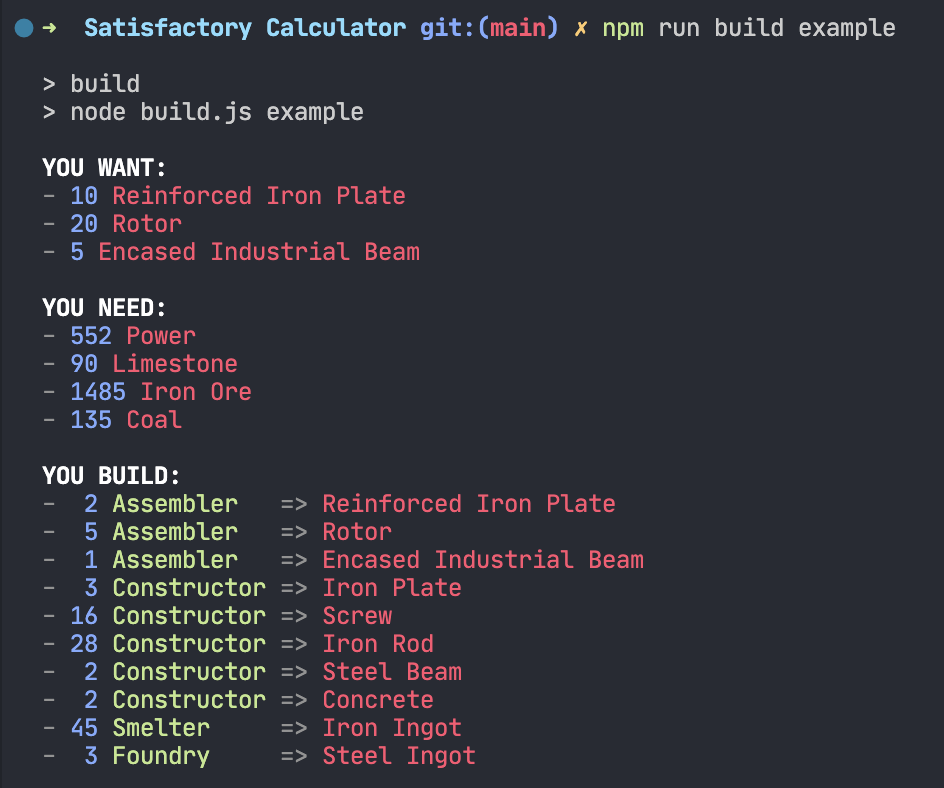
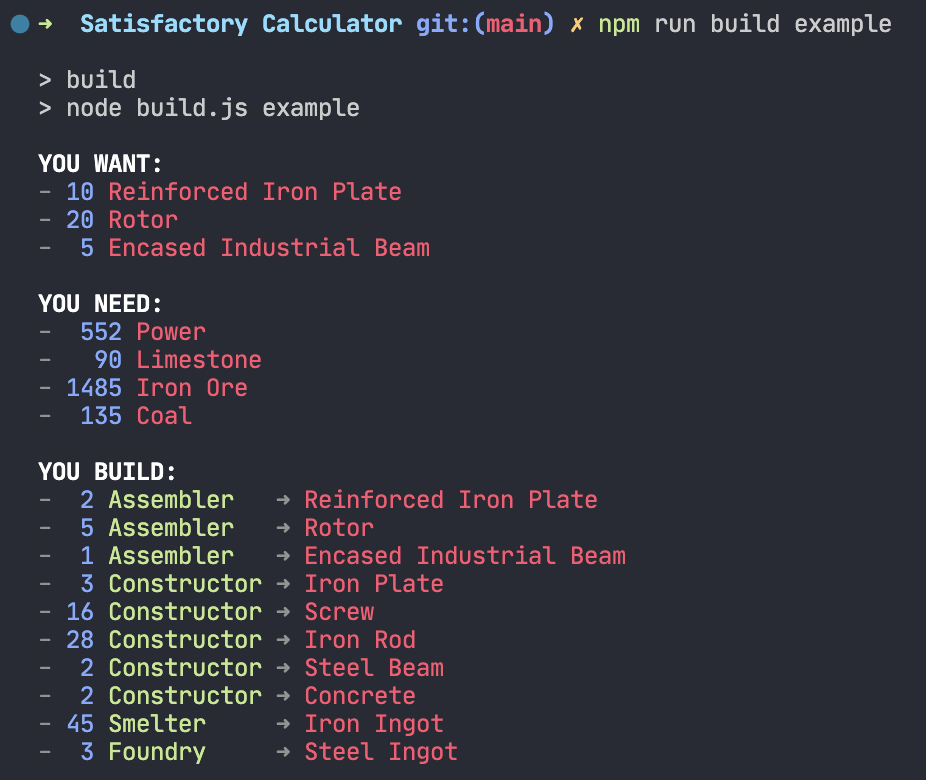
Table spacing

diff --git a/build.js b/build.js
@@ -4,7 +4,6 @@ const argv          = require('yargs/yargs')(process.argv.slice(2)).argv;
 const util          = require('util');
 const createID      = require('./modules/generate-hex-id');
 const { formatCLI } = require('./modules/cli-format');
-const { format } = require('path');
 
 const data = getData();
 
@@ -219,24 +218,42 @@ function displayResults( results ) {
 
 	lines.push( formatCLI('YOU WANT:', 'bold,white') );
 
+	// REQUESTS (“YOU WANT…’)
+	let resultsTable = [];
+
 	results.requests.forEach(request => {
 		const item = data.map.get(request.itemID);
-		lines.push( formatCLI('- ', 'black') + formatCLI(request.num, 'blue') + ' ' + formatCLI(item.displayName, 'red' ) );
+		resultsTable.push([ request.num, item.displayName ]);
+	});
+
+	resultsTable = spaceTableColumns( resultsTable, [ 'right', 'left' ] );
+
+	resultsTable.forEach(request => {
+		lines.push( formatCLI('- ', 'black') + formatCLI(request[0], 'blue') + ' ' + formatCLI(request[1], 'red' ) );
 	});
 
 	lines.push('');
 
+	// RESOURCES (“YOU NEED…’)
 	lines.push( formatCLI('YOU NEED:', 'bold,white') );
+
+	let resourcesTable = [];
 
 	Object.keys(results.resources).forEach( itemID => {
 		const item = data.map.get(itemID);
 		const resourceNum = results.resources[itemID];
-		lines.push( formatCLI('- ', 'black') + formatCLI(resourceNum, 'blue') + ' ' + formatCLI(item.displayName, 'red' ) );
+		resourcesTable.push([ resourceNum, item.displayName ]);
+	});
+
+	resourcesTable = spaceTableColumns( resourcesTable, [ 'right', 'left' ] );
+
+	resourcesTable.forEach( resource => {
+		lines.push( formatCLI('- ', 'black') + formatCLI(resource[0], 'blue') + ' ' + formatCLI(resource[1], 'red' ) );
 	});
 
 	lines.push('');
 
-	// FACTORIES
+	// FACTORIES (“YOU BUILD…’)
 	lines.push( formatCLI('YOU BUILD:', 'bold,white') );
 
 	let factoriesTable = [];
@@ -244,39 +261,61 @@ function displayResults( results ) {
 	results.factories.forEach(factory => {
 		const item     = data.map.get(factory.formula.outputs.itemID);
 		const building = data.map.get(factory.buildingID);
-		factoriesTable.push([ String(factory.scale), building.displayName, item.displayName ]);
+		factoriesTable.push([ factory.scale, building.displayName, item.displayName ]);
 	});
 
-	const factoriesTableColumns = factoriesTable.reduce( (columnSizes, factory) => {
-		factory.forEach( (value, c) => {
-			columnSizes[c] = Math.max( columnSizes[c], value.length );
-		});
-		return columnSizes;
-	}, [ 0, 0, 0 ] );
-
-	factoriesTable = factoriesTable.map( factory => {
-		factory = factory.map( (value, c) => {
-			const padSize = factoriesTableColumns[c] - value.length;
-			if ( padSize ) {
-				value = [
-					[...Array(padSize)].map( () => ' ' ).join(''),
-					value
-				];
-				if ( c > 0 ) value = value.reverse();
-				value = value.join('');
-			}
-			return value;
-		});
-		return factory;
-	});
+	factoriesTable = spaceTableColumns( factoriesTable, [ 'right', 'left', 'left' ] );
 
 	factoriesTable.forEach(factory => {
-		lines.push( formatCLI('- ', 'black') + formatCLI(factory[0], 'blue') + ' ' + formatCLI(factory[1], 'green' ) + ' ' + formatCLI( '=>', 'black' ) + ' ' + formatCLI(factory[2], 'red' ) );
+		lines.push( formatCLI('- ', 'black') + formatCLI(factory[0], 'blue') + ' ' + formatCLI(factory[1], 'green' ) + ' ' + formatCLI( '➜', 'black' ) + ' ' + formatCLI(factory[2], 'red' ) );
 	});
 
 	lines.push('');
 	
+	// DISPLAY
 	console.info(lines.join("\n"));
+
+}
+
+function spaceTableColumns( table, options ) {
+	
+	const columnSizes = table.reduce( (columnSizes, factory) => {
+		factory.forEach( (cell, c) => {
+			columnSizes[c] = Math.max( columnSizes[c], String(cell).length );
+		});
+		return columnSizes;
+	}, [ 0, 0, 0 ] );
+
+	table = table.map( row => {
+
+		row = row.map( (cell, c) => {
+
+			const padSize = Math.max( 0, columnSizes[c] - String(cell).length );
+
+			if ( padSize ) {
+
+				let cellParts = [
+					cell,
+					[...Array(padSize)].map( () => ' ' ).join('')
+				];
+
+				if ( options && options[c] && options[c] === 'right' ) {
+					cellParts = cellParts.reverse();
+				}
+
+				cell = cellParts.join('');
+
+			}
+
+			return cell;
+
+		});
+
+		return row;
+
+	});
+
+	return table;
 
 }
 
